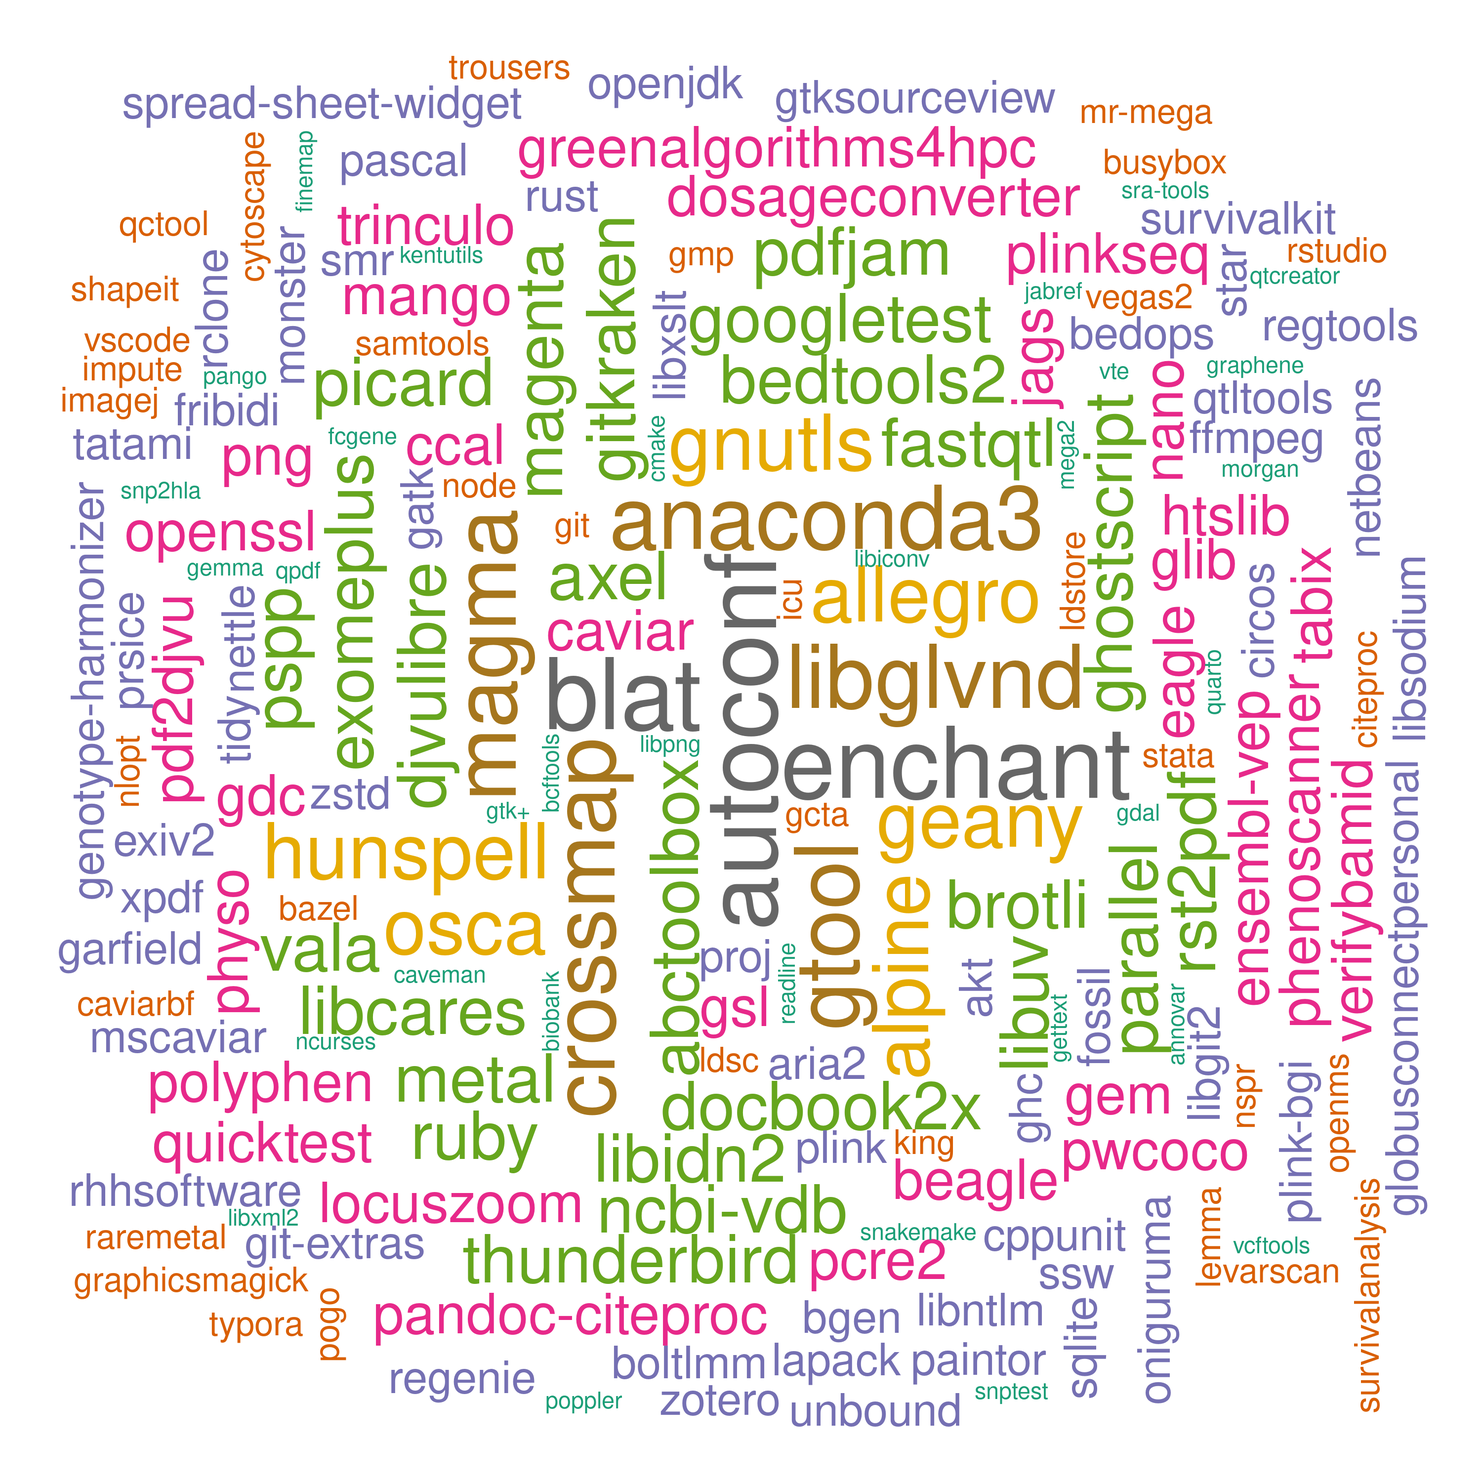
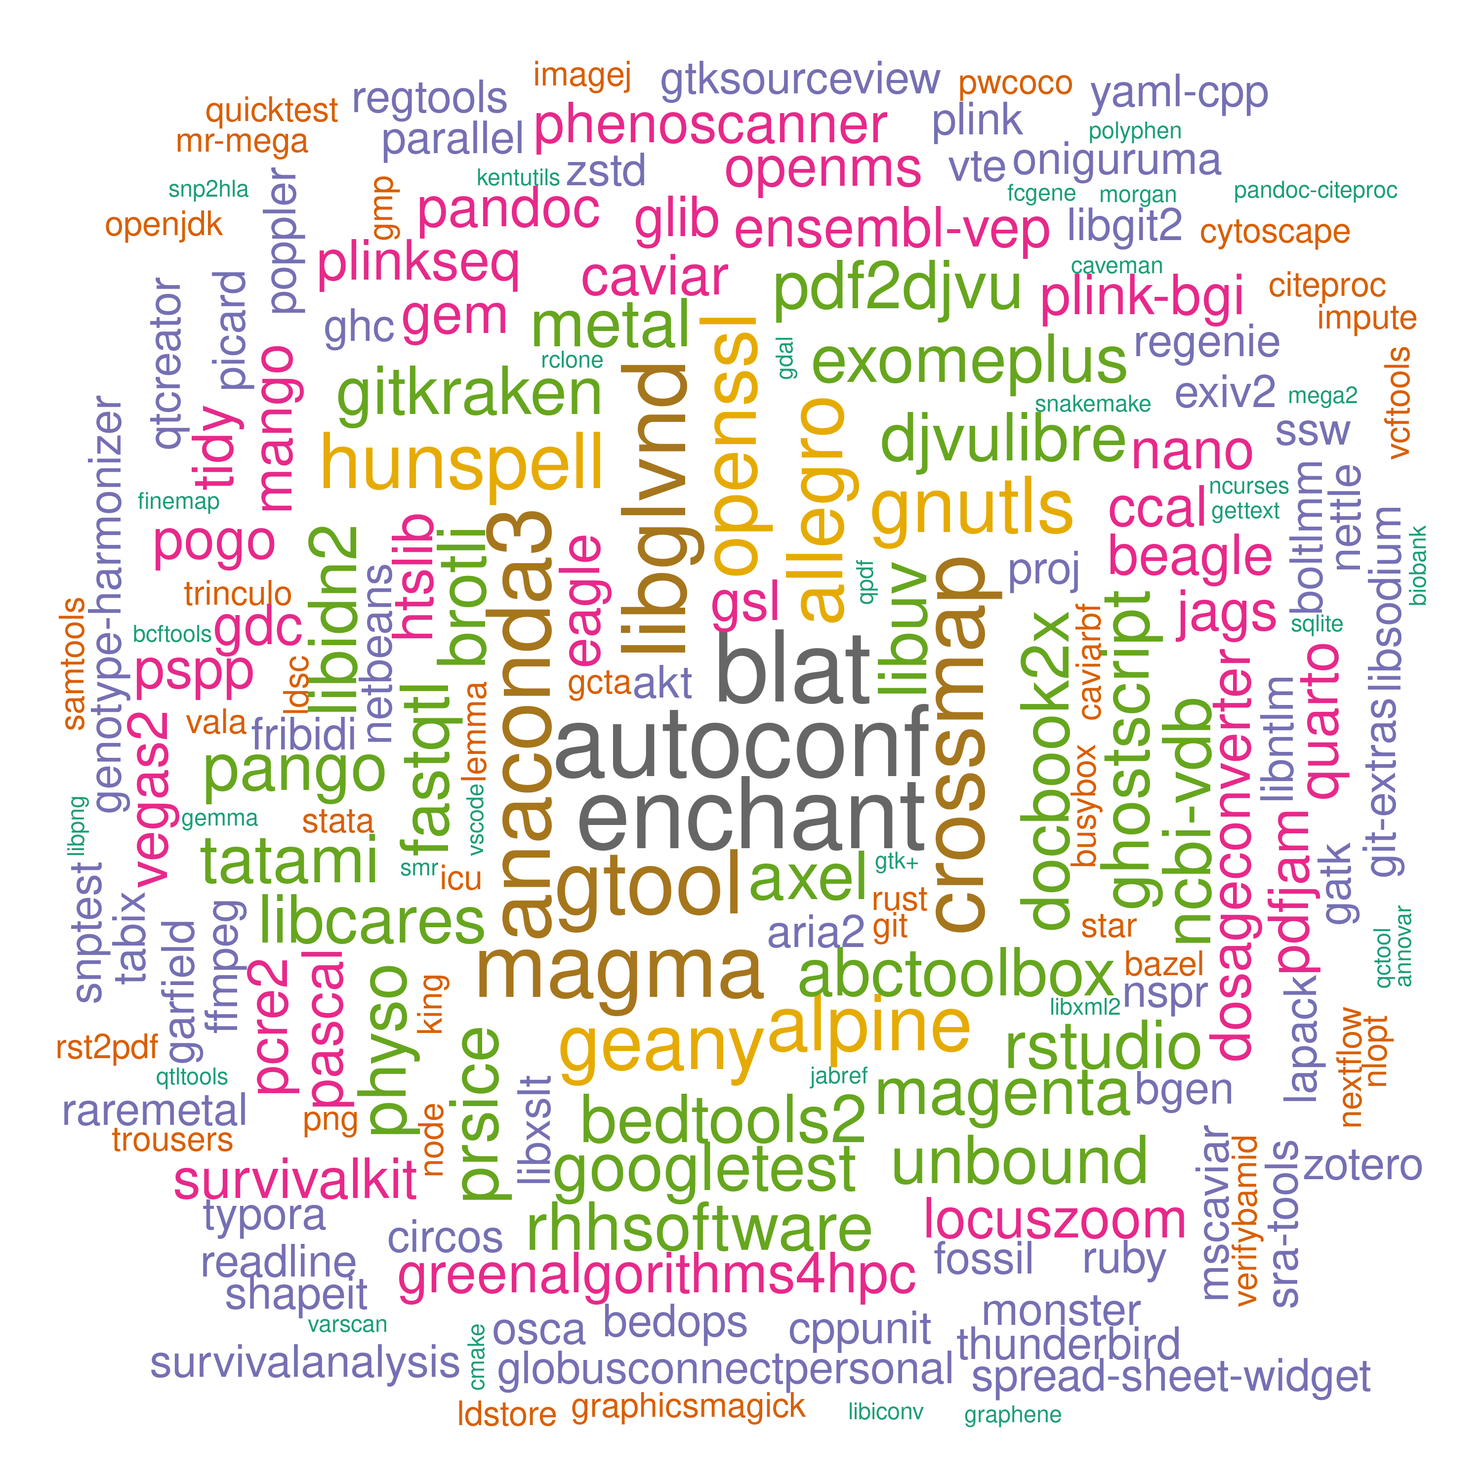
./

diff --git a/systems/files/ceuadmin.md b/systems/files/ceuadmin.md
@@ -5,56 +5,57 @@ Location at CSD3: /usr/local/Cluster-Apps/ceuadmin, (module files: /usr/local/Cl
 The current list is as follows[^ls],
 
 ```
-  [1] "ABCtoolbox"            "akt"                   "allegro"               "alpine"               
-  [5] "Anaconda3"             "annovar"               "aria2"                 "autoconf"             
-  [9] "axel"                  "bazel"                 "bcftools"              "Beagle"               
- [13] "bedops"                "bedtools2"             "bgen"                  "biobank"              
- [17] "blat"                  "boltlmm"               "brotli"                "busybox"              
- [21] "CaVEMaN"               "CAVIAR"                "CAVIARBF"              "ccal"                 
- [25] "circos"                "citeproc"              "cmake"                 "cppunit"              
- [29] "crossmap"              "Cytoscape"             "DEPICT"                "DjVuLibre"            
- [33] "docbook2X"             "DosageConverter"       "Eagle"                 "enchant"              
- [37] "ensembl-vep"           "exiv2"                 "exomeplus"             "expat"                
- [41] "FastQTL"               "fcGENE"                "ffmpeg"                "fgwas"                
- [45] "finemap"               "fossil"                "fribidi"               "GARFIELD"             
- [49] "gatk"                  "gcta"                  "gdal"                  "gdc"                  
- [53] "geany"                 "GEM"                   "GEMMA"                 "Genotype-Harmonizer"  
- [57] "gettext"               "gh"                    "ghc"                   "ghostscript"          
- [61] "git"                   "git-extras"            "GitKraken"             "glib"                 
- [65] "globusconnectpersonal" "gmp"                   "gnutls"                "googletest"           
- [69] "graphene"              "GraphicsMagick"        "GreenAlgorithms4HPC"   "gsl"                  
- [73] "gtk+"                  "gtksourceview"         "gtool"                 "hpg"                  
- [77] "htslib"                "hunspell"              "icu"                   "ImageJ"               
- [81] "impute"                "JabRef"                "JAGS"                  "jq"                   
- [85] "KentUtils"             "KING"                  "l"                     "lapack"               
- [89] "ldc2"                  "ldsc"                  "LDstore"               "LEMMA"                
- [93] "libcares"              "libgit2"               "libglvnd"              "libiconv"             
- [97] "libidn2"               "libntlm"               "libpng"                "libsodium"            
-[101] "libssh2"               "libuv"                 "libxml2"               "libxslt"              
-[105] "locuszoom"             "MAGENTA"               "magma"                 "Mango"                
-[109] "Mega2"                 "metal"                 "MONSTER"               "MORGAN"               
-[113] "MR-MEGA"               "MsCAVIAR"              "nano"                  "ncbi-vdb"             
-[117] "ncurses"               "netbeans"              "nettle"                "NLopt"                
-[121] "node"                  "nspr"                  "oniguruma"             "openjdk"              
-[125] "OpenMS"                "openssl"               "osca"                  "PAINTOR"              
-[129] "pandoc"                "pandoc-citeproc"       "pango"                 "parallel"             
-[133] "Pascal"                "pcre2"                 "pdf2djvu"              "pdfjam"               
-[137] "phenoscanner"          "PhySO"                 "picard"                "plink"                
-[141] "plink-bgi"             "plinkseq"              "PoGo"                  "polyphen"             
-[145] "poppler"               "proj"                  "PRSice"                "pspp"                 
-[149] "PWCoCo"                "qctool"                "qpdf"                  "qt"                   
-[153] "qtcreator"             "QTLtools"              "quarto"                "quicktest"            
-[157] "R"                     "raremetal"             "rclone"                "readline"             
-[161] "regenie"               "regtools"              "RHHsoftware"           "rst2pdf"              
-[165] "rstudio"               "ruby"                  "rust"                  "samtools"             
-[169] "shapeit"               "SMR"                   "snakemake"             "SNP2HLA"              
-[173] "snptest"               "spread-sheet-widget"   "sqlite"                "sra-tools"            
-[177] "ssw"                   "STAR"                  "stata"                 "SurvivalAnalysis"     
-[181] "SurvivalKit"           "tabix"                 "tatami"                "thunderbird"          
-[185] "tidy"                  "trinculo"              "trousers"              "Typora"               
-[189] "unbound"               "vala"                  "VarScan"               "vcftools"             
-[193] "VEGAS2"                "verifyBamID"           "VSCode"                "vte"                  
-[197] "xpdf"                  "yaml-cpp"              "Zotero"                "zstd"                 
+  [1] "ABCtoolbox"            "akt"                   "allegro"               "alpine"
+  [5] "Anaconda3"             "annovar"               "aria2"                 "autoconf"
+  [9] "axel"                  "bazel"                 "bcftools"              "Beagle"
+ [13] "bedops"                "bedtools2"             "bgen"                  "biobank"
+ [17] "blat"                  "boltlmm"               "brotli"                "busybox"
+ [21] "CaVEMaN"               "CAVIAR"                "CAVIARBF"              "ccal"
+ [25] "circos"                "citeproc"              "cmake"                 "cppunit"
+ [29] "crossmap"              "Cytoscape"             "DEPICT"                "DjVuLibre"
+ [33] "docbook2X"             "DosageConverter"       "Eagle"                 "enchant"
+ [37] "ensembl-vep"           "exiv2"                 "exomeplus"             "expat"
+ [41] "FastQTL"               "fcGENE"                "ffmpeg"                "fgwas"
+ [45] "finemap"               "fossil"                "fribidi"               "GARFIELD"
+ [49] "gatk"                  "gcta"                  "gdal"                  "gdc"
+ [53] "geany"                 "GEM"                   "GEMMA"                 "Genotype-Harmonizer"
+ [57] "gettext"               "gh"                    "ghc"                   "ghostscript"
+ [61] "git"                   "git-extras"            "GitKraken"             "glib"
+ [65] "globusconnectpersonal" "gmp"                   "gnutls"                "googletest"
+ [69] "graphene"              "GraphicsMagick"        "GreenAlgorithms4HPC"   "gsl"
+ [73] "gtk+"                  "gtksourceview"         "gtool"                 "hpg"
+ [77] "htslib"                "hunspell"              "icu"                   "ImageJ"
+ [81] "impute"                "JabRef"                "JAGS"                  "jq"
+ [85] "KentUtils"             "KING"                  "lapack"                "ldc2"
+ [89] "ldsc"                  "LDstore"               "LEMMA"                 "libcares"
+ [93] "libgit2"               "libglvnd"              "libiconv"              "libidn2"
+ [97] "libntlm"               "libpng"                "libsodium"             "libssh2"
+[101] "libuv"                 "libxml2"               "libxslt"               "locuszoom"
+[105] "MAGENTA"               "magma"                 "Mango"                 "Mega2"
+[109] "metal"                 "MONSTER"               "MORGAN"                "MR-MEGA"
+[113] "MsCAVIAR"              "nano"                  "ncbi-vdb"              "ncurses"
+[117] "netbeans"              "nettle"                "nextflow"              "NLopt"
+[121] "node"                  "nspr"                  "oniguruma"             "openjdk"
+[125] "OpenMS"                "openssl"               "osca"                  "PAINTOR"
+[129] "pandoc"                "pandoc-citeproc"       "pango"                 "parallel"
+[133] "Pascal"                "pcre2"                 "pdf2djvu"              "pdfjam"
+[137] "phenoscanner"          "PhySO"                 "picard"                "plink"
+[141] "plink-bgi"             "plinkseq"              "png"                   "PoGo"
+[145] "polyphen"              "poppler"               "proj"                  "PRSice"
+[149] "pspp"                  "PWCoCo"                "qctool"                "qpdf"
+[153] "qt"                    "qtcreator"             "QTLtools"              "quarto"
+[157] "quicktest"             "R"                     "raremetal"             "rclone"
+[161] "readline"              "regenie"               "regtools"              "RHHsoftware"
+[165] "rst2pdf"               "rstudio"               "ruby"                  "rust"
+[169] "samtools"              "shapeit"               "SMR"                   "snakemake"
+[173] "SNP2HLA"               "snptest"               "spread-sheet-widget"   "sqlite"
+[177] "sra-tools"             "ssw"                   "STAR"                  "stata"
+[181] "SurvivalAnalysis"      "SurvivalKit"           "tabix"                 "tatami"
+[185] "thunderbird"           "tidy"                  "trinculo"              "trousers"
+[189] "Typora"                "unbound"               "vala"                  "VarScan"
+[193] "vcftools"              "VEGAS2"                "verifyBamID"           "VSCode"
+[197] "vte"                   "xpdf"                  "yaml-cpp"              "Zotero"
+[201] "zstd"
 ```
 
 Most should be available to all CSD3 users in the whole campus, e.g., for pspp, a brief description of a module is available with
@@ -308,6 +309,7 @@ They are ordered chronologically.
 | 2024-01-10  | cmake/3.28.1                     | Generic              |
 | 2024-01-10  | tatami/2.1.2                     | Generic[^tatami]     |
 | 2024-01-19  | htslib/1.19                      | Genetics             |
+| 2024-01-23  | nextflow/current                 | Generic[^nextflow]   |
 
 \* CEU or approved users only.
 
@@ -623,3 +625,7 @@ Three aspects are notable,
     2. mkdir build && cd build
     3. cmake .. -DCMAKE_INSTALL_PREFIX=$CEUADMIN/tatami/2.1.2
     4. cmake --build . --target install
+
+[^nextflow]: Installation is furnished by `curl -fsSL get.nextflow.io | bash`.
+
+    Application, <https://pgsc-calc.readthedocs.io/en/latest/index.html>

diff --git a/systems/ceuadmin.md b/systems/ceuadmin.md
@@ -8,7 +8,7 @@ The CEU software repository is here, **/usr/local/Cluster-Apps/ceuadmin/**.
 
 ![ceuadmin](ceuadmin.png)
 
-A word cloud diagram is generated from the following R script, noting that the importance of software is purely random according to $$Poisson(N,\lambda)$$ where $$N=200$$, $$\lambda=3$$.
+A word cloud diagram is generated from the following R script, noting that the importance of software is purely random according to $$Poisson(N,\lambda)$$ where $$N=201$$, $$\lambda=3$$.
 
 ```bash
 Rscript -e '
@@ -36,56 +36,57 @@ Rscript -e '
 The current list is as follows,
 
 ```
-  [1] "ABCtoolbox"            "akt"                   "allegro"               "alpine"               
-  [5] "Anaconda3"             "annovar"               "aria2"                 "autoconf"             
-  [9] "axel"                  "bazel"                 "bcftools"              "Beagle"               
- [13] "bedops"                "bedtools2"             "bgen"                  "biobank"              
- [17] "blat"                  "boltlmm"               "brotli"                "busybox"              
- [21] "CaVEMaN"               "CAVIAR"                "CAVIARBF"              "ccal"                 
- [25] "circos"                "citeproc"              "cmake"                 "cppunit"              
- [29] "crossmap"              "Cytoscape"             "DEPICT"                "DjVuLibre"            
- [33] "docbook2X"             "DosageConverter"       "Eagle"                 "enchant"              
- [37] "ensembl-vep"           "exiv2"                 "exomeplus"             "expat"                
- [41] "FastQTL"               "fcGENE"                "ffmpeg"                "fgwas"                
- [45] "finemap"               "fossil"                "fribidi"               "GARFIELD"             
- [49] "gatk"                  "gcta"                  "gdal"                  "gdc"                  
- [53] "geany"                 "GEM"                   "GEMMA"                 "Genotype-Harmonizer"  
- [57] "gettext"               "gh"                    "ghc"                   "ghostscript"          
- [61] "git"                   "git-extras"            "GitKraken"             "glib"                 
- [65] "globusconnectpersonal" "gmp"                   "gnutls"                "googletest"           
- [69] "graphene"              "GraphicsMagick"        "GreenAlgorithms4HPC"   "gsl"                  
- [73] "gtk+"                  "gtksourceview"         "gtool"                 "hpg"                  
- [77] "htslib"                "hunspell"              "icu"                   "ImageJ"               
- [81] "impute"                "JabRef"                "JAGS"                  "jq"                   
- [85] "KentUtils"             "KING"                  "l"                     "lapack"               
- [89] "ldc2"                  "ldsc"                  "LDstore"               "LEMMA"                
- [93] "libcares"              "libgit2"               "libglvnd"              "libiconv"             
- [97] "libidn2"               "libntlm"               "libpng"                "libsodium"            
-[101] "libssh2"               "libuv"                 "libxml2"               "libxslt"              
-[105] "locuszoom"             "MAGENTA"               "magma"                 "Mango"                
-[109] "Mega2"                 "metal"                 "MONSTER"               "MORGAN"               
-[113] "MR-MEGA"               "MsCAVIAR"              "nano"                  "ncbi-vdb"             
-[117] "ncurses"               "netbeans"              "nettle"                "NLopt"                
-[121] "node"                  "nspr"                  "oniguruma"             "openjdk"              
-[125] "OpenMS"                "openssl"               "osca"                  "PAINTOR"              
-[129] "pandoc"                "pandoc-citeproc"       "pango"                 "parallel"             
-[133] "Pascal"                "pcre2"                 "pdf2djvu"              "pdfjam"               
-[137] "phenoscanner"          "PhySO"                 "picard"                "plink"                
-[141] "plink-bgi"             "plinkseq"              "PoGo"                  "polyphen"             
-[145] "poppler"               "proj"                  "PRSice"                "pspp"                 
-[149] "PWCoCo"                "qctool"                "qpdf"                  "qt"                   
-[153] "qtcreator"             "QTLtools"              "quarto"                "quicktest"            
-[157] "R"                     "raremetal"             "rclone"                "readline"             
-[161] "regenie"               "regtools"              "RHHsoftware"           "rst2pdf"              
-[165] "rstudio"               "ruby"                  "rust"                  "samtools"             
-[169] "shapeit"               "SMR"                   "snakemake"             "SNP2HLA"              
-[173] "snptest"               "spread-sheet-widget"   "sqlite"                "sra-tools"            
-[177] "ssw"                   "STAR"                  "stata"                 "SurvivalAnalysis"     
-[181] "SurvivalKit"           "tabix"                 "tatami"                "thunderbird"          
-[185] "tidy"                  "trinculo"              "trousers"              "Typora"               
-[189] "unbound"               "vala"                  "VarScan"               "vcftools"             
-[193] "VEGAS2"                "verifyBamID"           "VSCode"                "vte"                  
-[197] "xpdf"                  "yaml-cpp"              "Zotero"                "zstd"                 
+  [1] "ABCtoolbox"            "akt"                   "allegro"               "alpine"
+  [5] "Anaconda3"             "annovar"               "aria2"                 "autoconf"
+  [9] "axel"                  "bazel"                 "bcftools"              "Beagle"
+ [13] "bedops"                "bedtools2"             "bgen"                  "biobank"
+ [17] "blat"                  "boltlmm"               "brotli"                "busybox"
+ [21] "CaVEMaN"               "CAVIAR"                "CAVIARBF"              "ccal"
+ [25] "circos"                "citeproc"              "cmake"                 "cppunit"
+ [29] "crossmap"              "Cytoscape"             "DEPICT"                "DjVuLibre"
+ [33] "docbook2X"             "DosageConverter"       "Eagle"                 "enchant"
+ [37] "ensembl-vep"           "exiv2"                 "exomeplus"             "expat"
+ [41] "FastQTL"               "fcGENE"                "ffmpeg"                "fgwas"
+ [45] "finemap"               "fossil"                "fribidi"               "GARFIELD"
+ [49] "gatk"                  "gcta"                  "gdal"                  "gdc"
+ [53] "geany"                 "GEM"                   "GEMMA"                 "Genotype-Harmonizer"
+ [57] "gettext"               "gh"                    "ghc"                   "ghostscript"
+ [61] "git"                   "git-extras"            "GitKraken"             "glib"
+ [65] "globusconnectpersonal" "gmp"                   "gnutls"                "googletest"
+ [69] "graphene"              "GraphicsMagick"        "GreenAlgorithms4HPC"   "gsl"
+ [73] "gtk+"                  "gtksourceview"         "gtool"                 "hpg"
+ [77] "htslib"                "hunspell"              "icu"                   "ImageJ"
+ [81] "impute"                "JabRef"                "JAGS"                  "jq"
+ [85] "KentUtils"             "KING"                  "lapack"                "ldc2"
+ [89] "ldsc"                  "LDstore"               "LEMMA"                 "libcares"
+ [93] "libgit2"               "libglvnd"              "libiconv"              "libidn2"
+ [97] "libntlm"               "libpng"                "libsodium"             "libssh2"
+[101] "libuv"                 "libxml2"               "libxslt"               "locuszoom"
+[105] "MAGENTA"               "magma"                 "Mango"                 "Mega2"
+[109] "metal"                 "MONSTER"               "MORGAN"                "MR-MEGA"
+[113] "MsCAVIAR"              "nano"                  "ncbi-vdb"              "ncurses"
+[117] "netbeans"              "nettle"                "nextflow"              "NLopt"
+[121] "node"                  "nspr"                  "oniguruma"             "openjdk"
+[125] "OpenMS"                "openssl"               "osca"                  "PAINTOR"
+[129] "pandoc"                "pandoc-citeproc"       "pango"                 "parallel"
+[133] "Pascal"                "pcre2"                 "pdf2djvu"              "pdfjam"
+[137] "phenoscanner"          "PhySO"                 "picard"                "plink"
+[141] "plink-bgi"             "plinkseq"              "png"                   "PoGo"
+[145] "polyphen"              "poppler"               "proj"                  "PRSice"
+[149] "pspp"                  "PWCoCo"                "qctool"                "qpdf"
+[153] "qt"                    "qtcreator"             "QTLtools"              "quarto"
+[157] "quicktest"             "R"                     "raremetal"             "rclone"
+[161] "readline"              "regenie"               "regtools"              "RHHsoftware"
+[165] "rst2pdf"               "rstudio"               "ruby"                  "rust"
+[169] "samtools"              "shapeit"               "SMR"                   "snakemake"
+[173] "SNP2HLA"               "snptest"               "spread-sheet-widget"   "sqlite"
+[177] "sra-tools"             "ssw"                   "STAR"                  "stata"
+[181] "SurvivalAnalysis"      "SurvivalKit"           "tabix"                 "tatami"
+[185] "thunderbird"           "tidy"                  "trinculo"              "trousers"
+[189] "Typora"                "unbound"               "vala"                  "VarScan"
+[193] "vcftools"              "VEGAS2"                "verifyBamID"           "VSCode"
+[197] "vte"                   "xpdf"                  "yaml-cpp"              "Zotero"
+[201] "zstd"
 ```
 
 These are wrapped up as :star::star::star: **[modules](https://modules.readthedocs.io/en/latest/index.html)** :star::star::star:.
